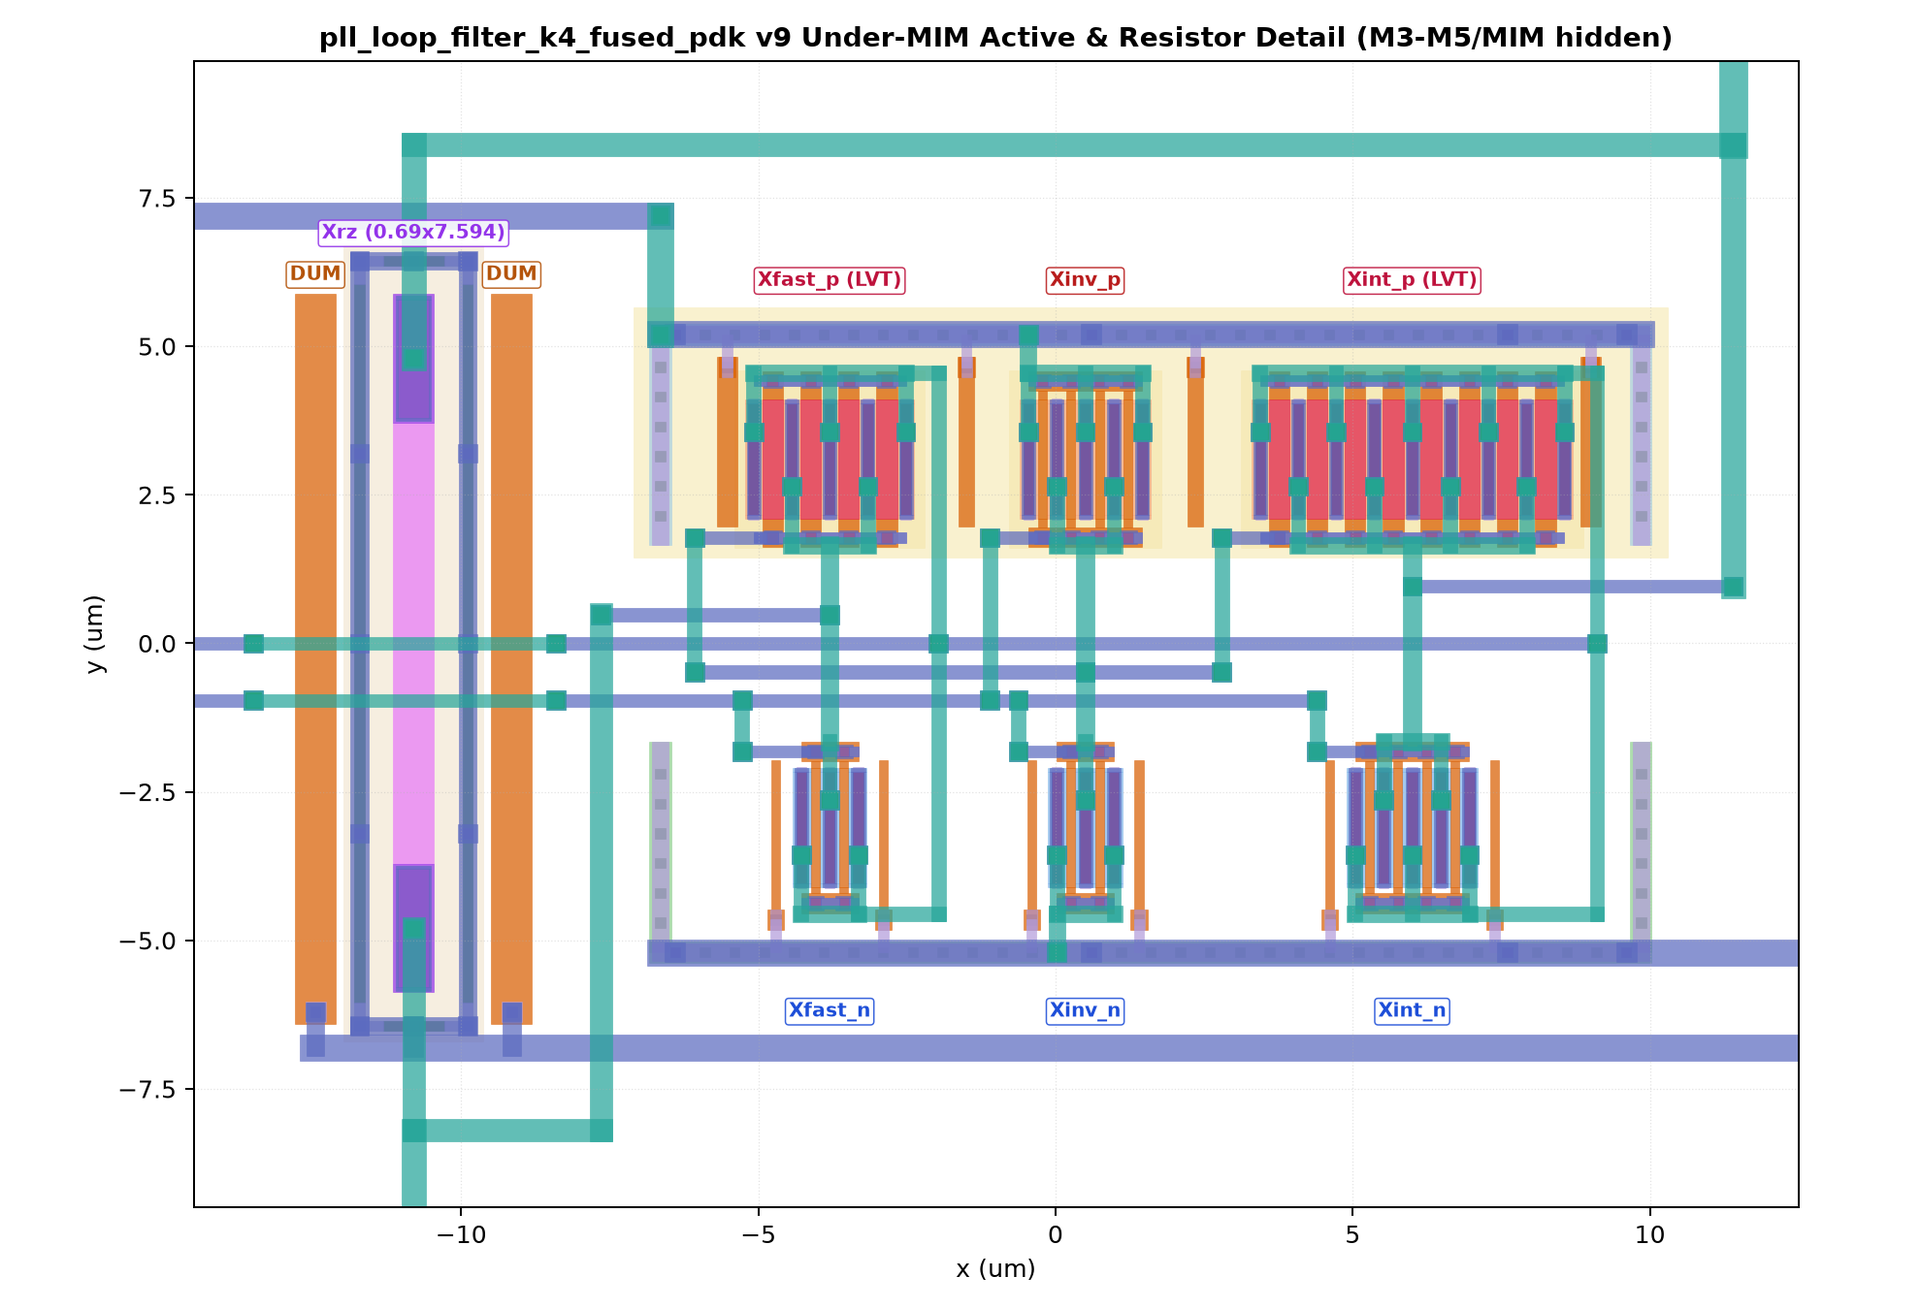
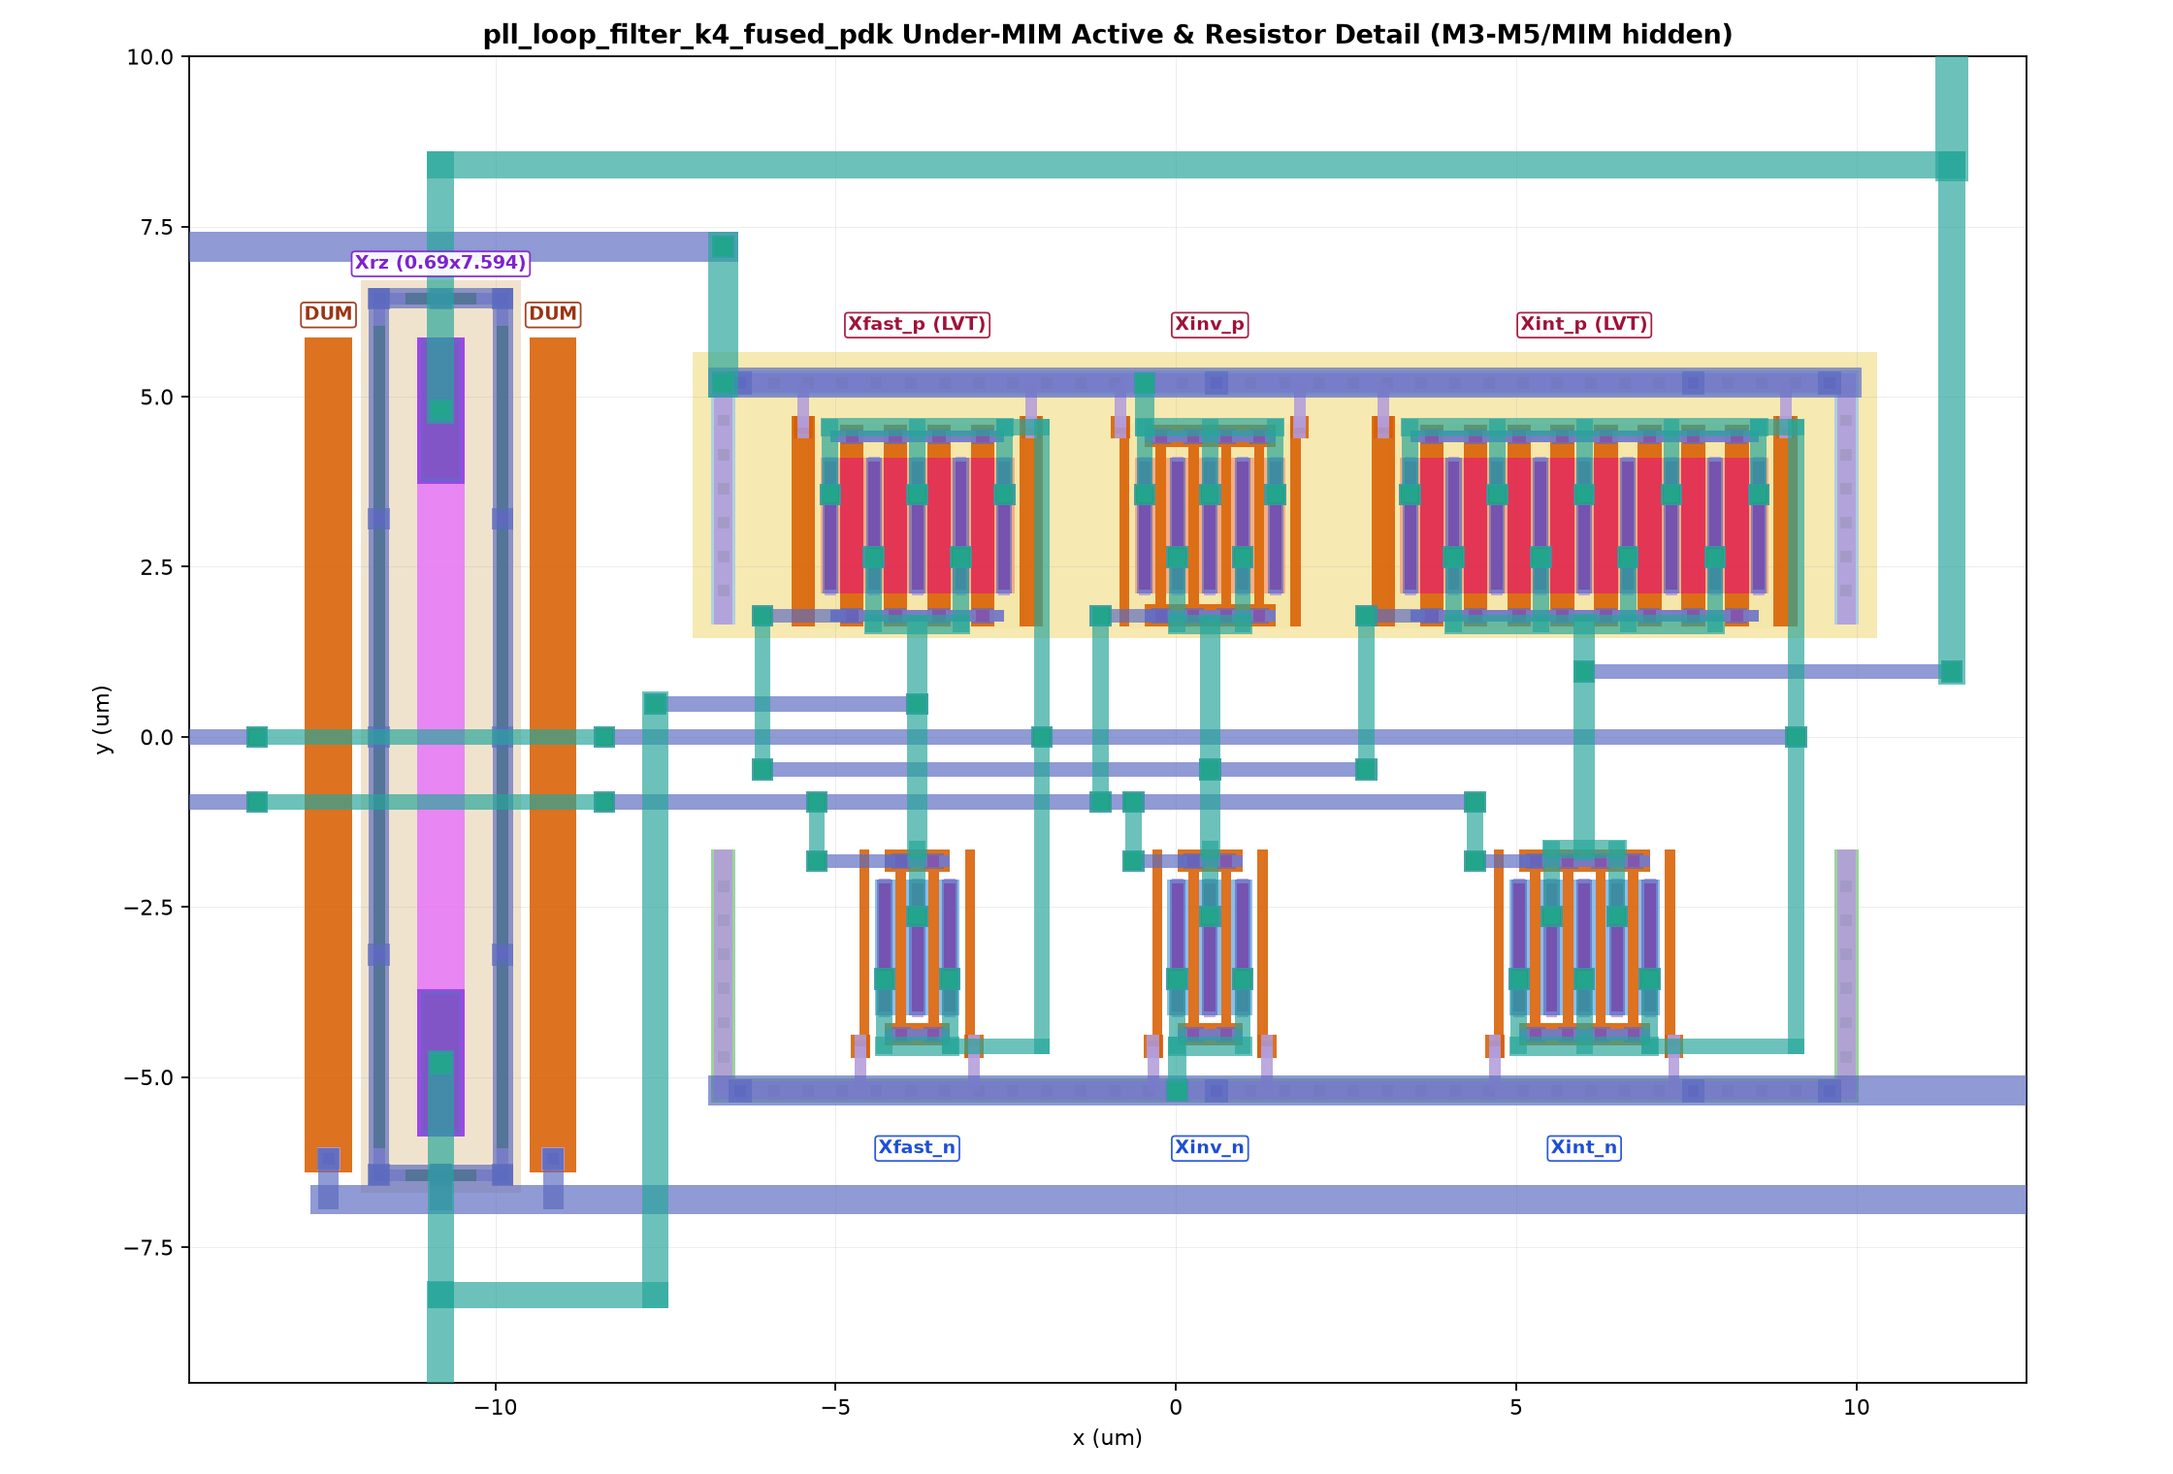
layout(lf): align biased dummy geometry and revalidate CPEX cards
Rebuild the revised fused filter with DRC 0 and unique LVS match; verify exact geometry/reference and equivalent capacitor cards. Seven local AC points and all 28 short precharge cases pass the existing screen (fused worst 1.799154 mV). Keep prior RC evidence tied to the older geometry; no new native RC simulation.

diff --git a/verification/analysis/pll_pending_review.py b/verification/analysis/pll_pending_review.py
@@ -1,0 +1,104 @@
+"""Publish fixed-input pending-layout reviews without launching simulation."""
+from __future__ import annotations
+
+import argparse
+from datetime import datetime, timezone
+import hashlib
+import importlib.util
+import json
+from pathlib import Path
+import re
+import shutil
+
+import numpy as np
+from serdes_flow import corners, netlist, spice
+from serdes_flow.project import ROOT
+
+BASE = ROOT / "results/layout_review/pll_pending_20261117"
+
+
+def digest(path):
+    h = hashlib.sha256()
+    with path.open("rb") as stream:
+        for chunk in iter(lambda: stream.read(1024 * 1024), b""):
+            h.update(chunk)
+    return h.hexdigest()
+
+
+def complete(directory, evidence):
+    deck, receipt = directory / "tb.cir", directory / "execution.json"
+    text = deck.read_text()
+    ex = json.loads(receipt.read_text())
+    stop = netlist.number(re.search(r"^tran\s+\S+\s+(\S+)", text, re.M)[1])
+    wave = directory / "waveforms.raw"
+    w = spice.Waves(wave)
+    if (ex["exit_code"] != 0 or ex["timed_out"] or ex["log_failures"]
+            or ex["deck_sha256"] != digest(deck) or w.t[-1] < stop * (1 - 1e-6)
+            or not np.all(np.isfinite(w.data))):
+        raise ValueError(f"Incomplete or inconsistent run: {directory}")
+    evidence.update((p, digest(p)) for p in [deck, receipt, wave, directory / "simulator.log"])
+    section = re.search(r'^\.lib\s+"[^"]+"\s+(\S+)', text, re.M)[1]
+    return w, section, bool(ex.get("inputs_sha256"))
+
+
+def source_evidence(directory, evidence):
+    for path in directory.glob("*"):
+        if path.is_file() and path.suffix in (".mag", ".spice", ".json", ".py"):
+            evidence[path] = digest(path)
+
+
+def lf(evidence):
+    analyses = [BASE / p for p in [
+        "lf_dummy_ac/analysis/20261117T115418.545234Z/summary.json",
+        "lf_dummy_precharge/analysis/20261117T115818.555744Z/summary.json"]]
+    data = [json.loads(p.read_text()) for p in analyses]
+    for p in analyses:
+        evidence[p] = digest(p)
+    for campaign in (BASE / "lf_dummy_ac", BASE / "lf_dummy_precharge"):
+        for receipt in campaign.glob("*/execution.json"):
+            ex = json.loads(receipt.read_text())
+            if ex["exit_code"] != 0 or ex["timed_out"] or ex["log_failures"]:
+                raise ValueError(receipt)
+            if (receipt.parent / "waveforms.raw").exists():
+                complete(receipt.parent, evidence)
+            else:
+                for name in ("impedance.tsv", "feedthrough.tsv"):
+                    table = np.loadtxt(receipt.parent / name, skiprows=1)
+                    if table[-1, 0] < 1e9 or not np.all(np.isfinite(table)):
+                        raise ValueError("Incomplete LF AC table")
+        for p in campaign.rglob("*"):
+            if p.is_file() and p.suffix in (".spice", ".json", ".cir", ".tsv", ".raw"):
+                evidence[p] = digest(p)
+    source_evidence(BASE / "lf_dummy_rebuild/pll_loop_filter_k4_fused_pdk", evidence)
+    source_evidence(ROOT / "analog/pll/loop_filter/layout/variants/fused_pdk", evidence)
+    return dict(status="local_geometry_and_cpex_screen_accepted", analyses=data,
+                scope="Seven local AC/precharge points; no new native RC, full-loop, MC or noise qualification")
+
+
+def main():
+    ap = argparse.ArgumentParser(description=__doc__)
+    ap.add_argument("module", choices=("lf",))
+    args = ap.parse_args()
+    output = BASE / "exports" / datetime.now(timezone.utc).strftime("%Y%m%dT%H%M%S.%fZ")
+    output.mkdir(parents=True, exist_ok=False)
+    evidence = {}
+    result = globals()[args.module](evidence)
+    sources = [Path(__file__).resolve(), ROOT / "src/serdes_flow/clock.py"]
+    if args.module != "lf":
+        sources.append(ROOT / "analog/common/cml_to_cmos/tb/r5_pex/verify_r5_pdk.py")
+    for source in sources:
+        target = output / source.name
+        shutil.copy2(source, target)
+        evidence[target] = digest(target)
+    result.update(module=args.module, evidence={str(p.relative_to(ROOT)): h for p, h in sorted(evidence.items())},
+                  final_electrical_signoff=False)
+    path = output / "summary.json"
+    path.write_text(json.dumps(result, indent=2) + "\n")
+    catalog = ROOT / f"results/catalog/pll_pending_{args.module}_review_20261117.json"
+    catalog.write_text(json.dumps(dict(summary=str(path.relative_to(ROOT)), sha256=digest(path),
+                                       status=result["status"], final_electrical_signoff=False), indent=2) + "\n")
+    print(path.relative_to(ROOT), result["status"], f"{len(evidence)} evidence hashes")
+
+
+if __name__ == "__main__":
+    main()

diff --git a/analog/pll/loop_filter/layout/build_lf_fused_pdk.py b/analog/pll/loop_filter/layout/build_lf_fused_pdk.py
@@ -125,6 +125,12 @@ def place_w2_mos(
     df_layer = "pdiff" if is_pmos else "ndiff"
     x_df_min = min(r[0] for r in prim.rects[df_layer]) + dx
     x_df_max = max(r[2] for r in prim.rects[df_layer]) + dx
+    mk = next(k for k in ("pmoslvt", "pmos", "nmoslvt", "nmos") if k in prim.rects)
+    l_f = grid(prim.rects[mk][0][2] - prim.rects[mk][0][0])
+    py_lo = min(r[1] for r in prim.rects["poly"])
+    py_hi = max(r[3] for r in prim.rects["poly"])
+    poly_y1 = grid(dy - py_hi) if is_pmos else grid(dy + py_lo)
+    poly_y2 = grid(dy - py_lo) if is_pmos else grid(dy + py_hi)
     gx_esc = grid(x_df_min - 0.85) if dx < -2.0 else grid(x_df_min - 0.50)
     c.wire("metal1", [(gx_esc, gy), (gx0, gy)], 0.20)
     c.via1(gx_esc, gy)
@@ -137,6 +143,9 @@ def place_w2_mos(
         "g_pt": (gx_esc, gy),
         "x_min": grid(x_df_min),
         "x_max": grid(x_df_max),
+        "l_f": l_f,
+        "poly_y1": poly_y1,
+        "poly_y2": poly_y2,
     }
 
 
@@ -147,18 +156,22 @@ def add_mos_poly_dummy(
     dy: float,
     is_pmos: bool,
     y_rail: float,
+    y_poly_inner: float,
+    side_sign: int = 0,
 ) -> None:
-    """Place biased field-poly dummy gate (overhangs diff in Y) tied to VDD (PMOS) or VSS (NMOS)."""
+    """Place biased field-poly dummy gate (matching transistor L and inner poly span) tied to VDD/VSS."""
     hw = grid(l_f / 2.0)
-    y_cont = grid(dy + 1.55) if is_pmos else grid(dy - 1.55)
+    y_cont = grid(dy + 1.45) if is_pmos else grid(dy - 1.45)
     if is_pmos:
-        c.rect("poly", grid(x_dum - hw), grid(dy - 1.13), grid(x_dum + hw), grid(y_cont + 0.17))
+        c.rect("poly", grid(x_dum - hw), grid(y_poly_inner), grid(x_dum + hw), grid(y_cont + 0.17))
     else:
-        c.rect("poly", grid(x_dum - hw), grid(y_cont - 0.17), grid(x_dum + hw), grid(dy + 1.13))
-    c.pad("poly", x_dum, y_cont, 0.28, 0.34)
-    c.pad("polycont", x_dum, y_cont, 0.17, 0.17)
-    c.pad("locali", x_dum, y_cont, 0.18, 0.34)
-    c.rect("locali", grid(x_dum - 0.085), min(y_cont, y_rail), grid(x_dum + 0.085), max(y_cont, y_rail))
+        c.rect("poly", grid(x_dum - hw), grid(y_cont - 0.17), grid(x_dum + hw), grid(y_poly_inner))
+    # For narrow gates (L < 0.28), flare contact pad outward so inner edge clears poly.2 (0.21) & li.3 (0.17)
+    x_cont = grid(x_dum + side_sign * 0.060) if l_f < 0.28 else x_dum
+    c.pad("poly", x_cont, y_cont, 0.28, 0.34)
+    c.pad("polycont", x_cont, y_cont, 0.17, 0.17)
+    c.pad("locali", x_cont, y_cont, 0.18, 0.34)
+    c.rect("locali", grid(x_cont - 0.085), min(y_cont, y_rail), grid(x_cont + 0.085), max(y_cont, y_rail))
 
 
 def draw_compact_np_frame(
@@ -304,19 +317,22 @@ def build_lf_k4_fused(out: Path) -> dict:
     it_p = place_w2_mos(c, pl8, "pdiffc", dx_int, dy_p, True)
 
     # Biased field-poly dummy gates flanking EVERY NMOS (-> VSS) and EVERY PMOS (-> VDD)
-    for x_nd in (
-        grid(fn["x_min"] - 0.28), grid(fn["x_max"] + 0.28),
-        grid(in_n["x_min"] - 0.28), grid(in_n["x_max"] + 0.28),
-        grid(it_n["x_min"] - 0.28), grid(it_n["x_max"] + 0.28),
+    dum_gap = 0.075  # minimum SKY130 poly.5 spacing from field-poly edge to active diff edge
+    for dev, dy_m, is_p, y_rail in (
+        (fn, dy_n, False, y_nmos_vss_m1),
+        (in_n, dy_n, False, y_nmos_vss_m1),
+        (it_n, dy_n, False, y_nmos_vss_m1),
+        (fp, dy_p, True, y_pmos_vdd_m1),
+        (in_p, dy_p, True, y_pmos_vdd_m1),
+        (it_p, dy_p, True, y_pmos_vdd_m1),
     ):
-        add_mos_poly_dummy(c, x_nd, 0.15, dy_n, False, y_nmos_vss_m1)
-    for x_pd, lf in (
-        (grid(fp["x_min"] - 0.30), 0.35),
-        (-1.50, 0.25),
-        (2.35, 0.25),
-        (grid(it_p["x_max"] + 0.30), 0.35),
-    ):
-        add_mos_poly_dummy(c, x_pd, lf, dy_p, True, y_pmos_vdd_m1)
+        lf = dev["l_f"]
+        y_inner = dev["poly_y1"] if is_p else dev["poly_y2"]
+        for side_sign, x_d in (
+            (-1, grid(dev["x_min"] - dum_gap - lf / 2.0)),
+            (+1, grid(dev["x_max"] + dum_gap + lf / 2.0)),
+        ):
+            add_mos_poly_dummy(c, x_d, lf, dy_m, is_p, y_rail, y_inner, side_sign=side_sign)
 
     gr_x1, gr_x2 = -6.65, 9.85
     c.rect("nwell", grid(gr_x1 - 0.45), 1.45, grid(gr_x2 + 0.45), 5.65)

diff --git a/analog/pll/loop_filter/tb/layout_pex/run.py b/analog/pll/loop_filter/tb/layout_pex/run.py
@@ -23,11 +23,13 @@ POINTS = ["tt_v1800_t27:tt", "ss_v1650_t-40:hh", "sf_v1650_t-40:ll", "fs_v1650_t
           "ss_v1650_t85:hh", "ff_v1950_t-40:ll", "ff_v1950_t85:ll"]
 
 
-def models(physical, out):
+def models(physical, out, variants=("schematic", "cpex", "rcx")):
     entries = []
     out.mkdir(parents=True, exist_ok=True)
     for label,cell in [("original","pll_loop_filter_k4_pdk"),("fused","pll_loop_filter_k4_fused_pdk")]:
         for variant,file in [("schematic","reference.spice"),("cpex",cell+"_pex.spice"),("rcx",cell+"_rcx.spice")]:
+            if variant not in variants:
+                continue
             alias = f"lf_{label}_{variant}"
             text = re.sub(rf"\b{cell}\b", alias, (physical / cell / file).read_text())
             path = out / (alias+".spice")
@@ -96,10 +98,12 @@ def main():
     ap.add_argument("--workers",type=int,default=2,choices=(1,2))
     ap.add_argument("--method",choices=("trap","gear"),default="gear")
     ap.add_argument("--kind",choices=("both","ac","precharge"),default="both")
+    ap.add_argument("--variants", nargs="+", choices=("schematic", "cpex", "rcx"),
+                    default=("schematic", "cpex", "rcx"))
     ap.add_argument("--precharge-ns",type=float,default=2000.)
     ap.add_argument("--hold-ns",type=float,default=1000.)
     a=ap.parse_args();out=a.output_dir.resolve()
-    entries=models(a.physical_dir.resolve(),out/"models")
+    entries=models(a.physical_dir.resolve(),out/"models",a.variants)
     if a.kind=="precharge":
         release=a.precharge_ns*1e-9;tend=release+a.hold_ns*1e-9
         sample=release-1e-9

diff --git a/analog/pll/loop_filter/layout/variants/fused_pdk/README.md b/analog/pll/loop_filter/layout/variants/fused_pdk/README.md
@@ -2,6 +2,8 @@
 
 当前独立结论统一见 [审阅报告](../../review.md)，目录职责见 [模块入口](../../README.md)；本页保留原生成记录。
 
+2026-11-17 dummy 修订已独立重建及复核，当前身份和七点 CPEX 回归见[新版索引](../../../../../../results/catalog/pll_pending_lf_review_20261117.json)。11 月 15 日的原生 RC 与旧几何记录仅属于当时输入。
+
 - **生成器**：`analog/pll/loop_filter/layout/build_lf_fused_pdk.py`
 - **平面 Plan**：`analog/pll/loop_filter/layout/plan/plan_lf.py`（[plan 图](../../plan/lf_plan.png)、[数据](../../plan/lf_plan.json)）
 - **对应电路**：`analog/pll/loop_filter/spice/passive_rc_pdk_k4.spice` 新增候选 `.subckt pll_loop_filter_k4_fused`（原 `pll_loop_filter_k4` 未修改；零压测量连线 `Vlink cp_in ctrl 0` 并入物理端口 `ctrl`）
@@ -22,7 +24,7 @@
 - **三明治堆叠保持 1:2 电源纹波抵消 (`[VDD, VSS, VDD]`)**：每站点叠放 `cap_mim_m3_1`（M3–M4，1.500 pF）与镜像对齐的 `cap_mim_m3_2`（M4–M5，1.500 pF），共享中间 `metal4` 极板接入积分节点 `z`，下 `metal3` 与上 `metal5` 极板同接列电源（`col 0, 2` 接 `vdd` 共 12 pF，`col 1` 接 `vss` 共 6 pF）。
 - **`Col 1` 侧置带 Dummy 电阻 + 紧缩 CMOS 孤岛 + 共享双保护环**：
   - `Xrz` 移至 `Col 1` 左侧（`dx=-10.80, dy=0.00`），两侧加设 `0.69 µm` 纯多晶硅 dummy 条（`x=-12.45, -9.15`，`polycont+locali+M1` 钳位 `vss`，无 `xpolycontact` 不增改网表）；自带 `psubdiff` 环用四边 `M1 + 12 点 viali` 钳位 `vss`。
-  - 紧邻右侧 `Xfast + Xinv + Xint`（`dx=-3.80, +0.50, +6.00`，`dy_n=-3.10`, `dy_p=+3.10`）去掉独立冗余环后紧缩为 **`16.5 × 10.4 µm`** 的单框双环 CMOS 孤岛（`guard frame [-6.65, -5.20]..[+9.85, +5.20]`）；顶部 3 颗 PMOS（`pfet_01v8_lvt` 与标准 `pfet_01v8`）**Y 向镜像使栅极朝内**，共用连续 `nwell`（`x=[-7.10, +10.30], y=[1.45, 5.65]`）与 VDD `nsubdiff` 保护框，底部 NMOS 共用 VSS `psubdiff` 保护框；每颗 NMOS（6 根接 `vss`）与每颗 PMOS（4 根含共享极、接 `vdd`）两侧均加设偏置场多晶硅 dummy 栅极。
+  - 紧邻右侧 `Xfast + Xinv + Xint`（`dx=-3.80, +0.50, +6.00`，`dy_n=-3.10`, `dy_p=+3.10`）去掉独立冗余环后紧缩为 **`16.5 × 10.4 µm`** 的单框双环 CMOS 孤岛（`guard frame [-6.65, -5.20]..[+9.85, +5.20]`）；顶部 3 颗 PMOS（`pfet_01v8_lvt` 与标准 `pfet_01v8`）**Y 向镜像使栅极朝内**，共用连续 `nwell`（`x=[-7.10, +10.30], y=[1.45, 5.65]`）与 VDD `nsubdiff` 保护框，底部 NMOS 共用 VSS `psubdiff` 保护框；每颗 NMOS（6 根接 `vss`）与每颗 PMOS（6 根接 `vdd`）两侧均加设偏置场多晶硅 dummy 栅极。
   - 中间 `y in [-0.96, +0.96]` 布设 5 条 `0.48 µm` 节距 `M1` 信号轨；MIM 投影区内部仅使用 `locali / metal1 / metal2`，所有 `via2/via3/via4` 换层孔全部落在阵列外部或间隙通道。
 - **图像检查**：[整图](pll_loop_filter_k4_fused_pdk.png)、[Under-MIM 局部放大图](pll_lf_fused_under_mim.png)。
 

diff --git a/analog/pll/loop_filter/layout/review.md b/analog/pll/loop_filter/layout/review.md
@@ -1,5 +1,9 @@
 # LF 版图审阅（2026-11-15）
 
+**2026-11-17 更新：现行 fused 版的 MOS dummy 已按各管实际栅长与内侧 poly 跨度配齐，PMOS/NMOS 各六根，均有供电钳位。** 新生成器重建与现行几何/参考逐字一致，full-rule DRC=0、LVS 匹配；CPEX 经电容编号/方向归一化后相同。未发现浮空非器件 poly，外框仍为 98.34×70.10 µm。新输入及七点 AC/短预充证据见[新版索引](../../../../results/catalog/pll_pending_lf_review_20261117.json)，不把旧几何的哈希验收转移给新版。
+
+新版 TT CPEX 的 Ci=18.825383 pF、Rz=4120.494 Ω、供电跟随=0.664664；Ci 相比旧版仅约增加 0.016 fF。七点×原版/新版×原理图/CPEX 的 28 组 100 ns 预充均过 ±40 mV 局部包络，新 fused CPEX 最大误差 1.799154 mV。未提取或运行新版原生 RC；完整环路/噪声/失配等保留项不变。以下为 11 月 15 日原输入的详细审阅，数字不混作新版完整 RC 证据。
+
 [阶段验收与重新物理检查](../../../../docs/layout/pll_acceptance_20261115.md)明确本模块交付的接受范围与保留项。
 
 **原版与堆叠融合版的局部布局合理；不需要再改 dummy、护环或内部绕线。七个局部条件的独立 AC 完整，原理图与 CPEX 的短预充都满足本轮 40 mV 误差筛查。长保持和完整 RC 瞬态仍未验收，不据此自动采用堆叠版。** [固定证据](../../../../results/catalog/pll_layout_review_lf_20261115.json)绑定两份几何、各自参考及实际测试。

diff --git a/docs/layout/pll_acceptance_20261115.md b/docs/layout/pll_acceptance_20261115.md
@@ -1,5 +1,7 @@
 # PLL 四模块阶段验收（2026-11-15）
 
+本页与复核命令绑定 11 月 15 日的输入。LF fused 在 11 月 17 日已有新 dummy 几何，更新验收与新证据查[模块审阅](../../analog/pll/loop_filter/layout/review.md)；原命令遇到该输入变化会拒绝复用旧资格。
+
 **LF、divider、sym9 VCO 和 CML→CMOS 的局部几何交付可接受；电气资格按下表限定，尚不构成完整 PLL 签核。** 本次从现行目录重新运行六份几何的全规则 DRC、独立 LVS 和端口检查，全部通过；当前几何/参考与既有测量身份一致，215 份固定证据文件的哈希核对通过。机器记录见[验收索引](../../results/catalog/pll_layout_acceptance_20261115.json)。
 
 | 模块与验收版本 | 布局验收 | 已通过的寄生后局部检查 | 尚未授予的资格 |
